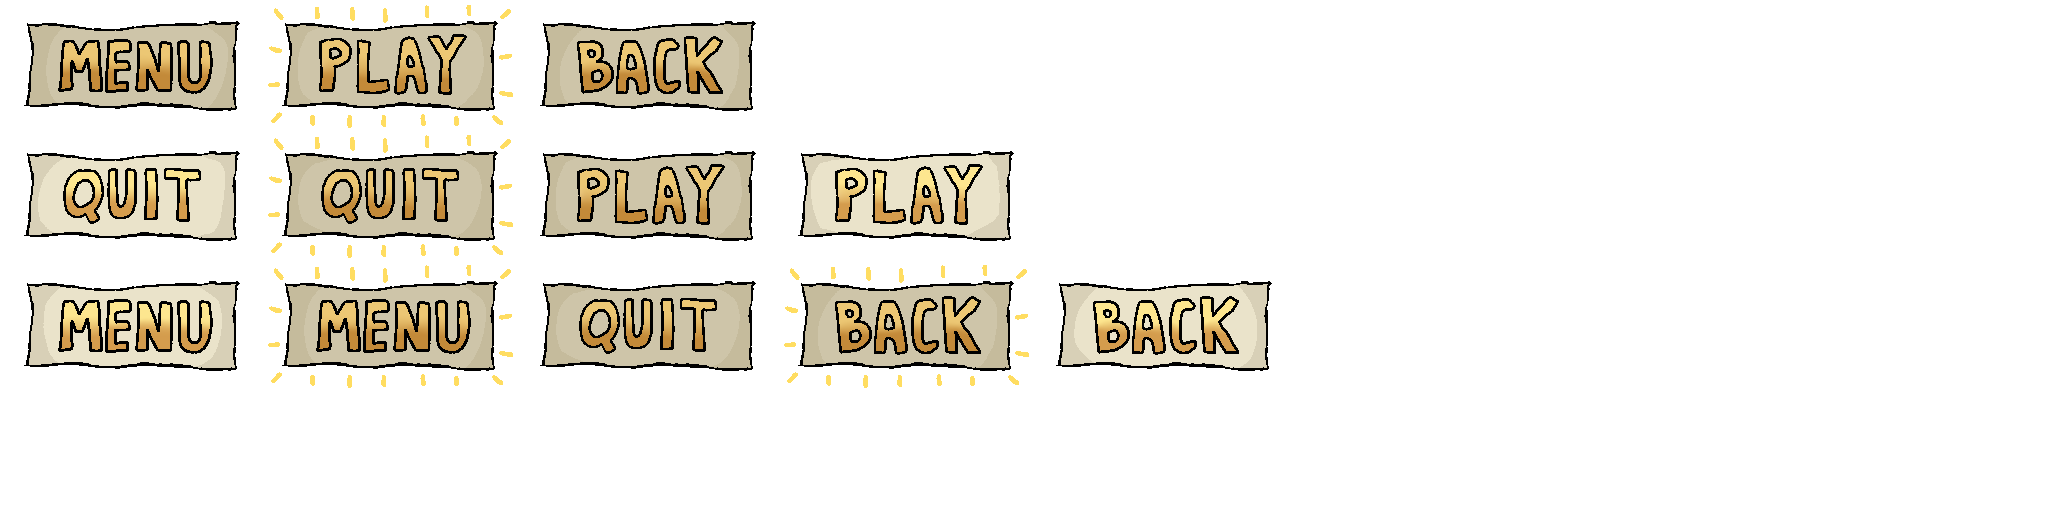
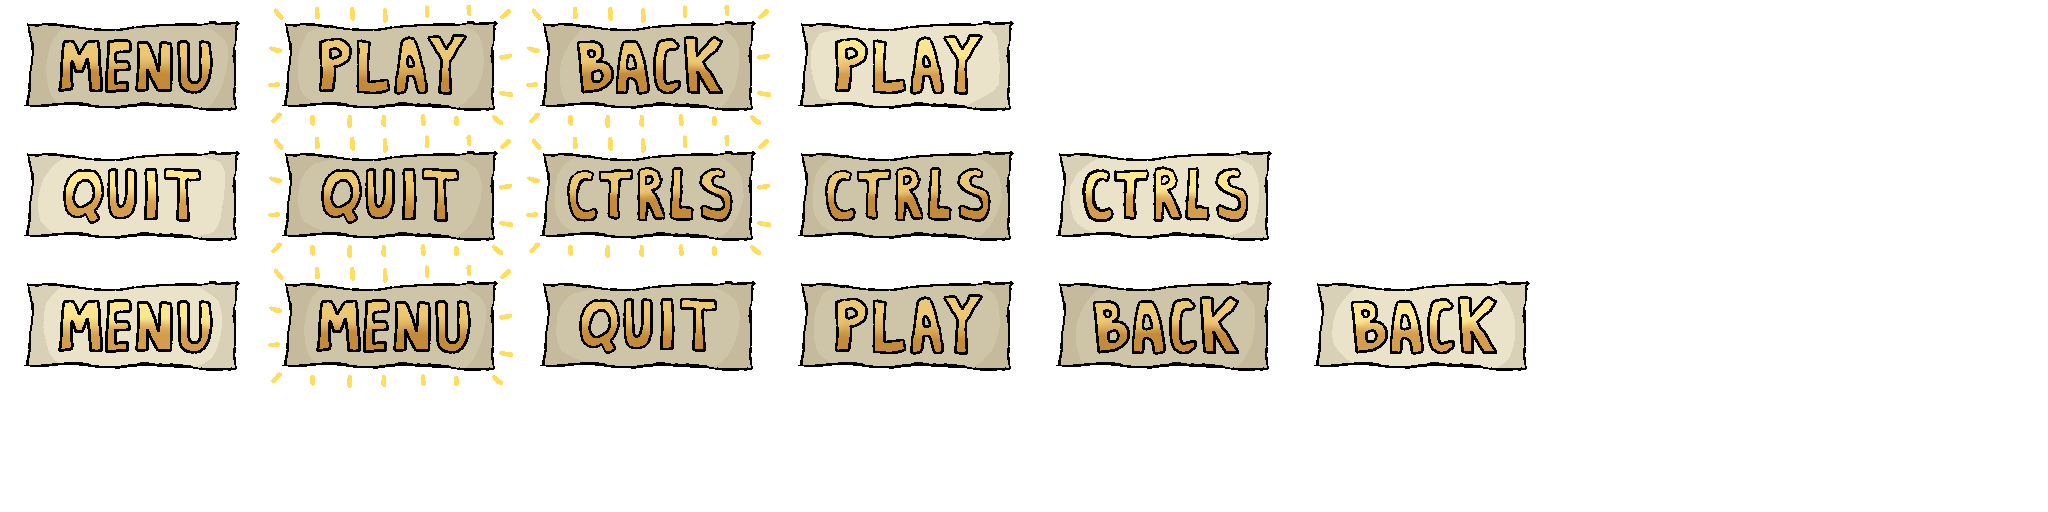
added new button textures, added buttons for displating controls inside pause screen and main menu screen

diff --git a/core/src/main/java/io/github/badgersky/BonesAndDice/PauseScreen.java b/core/src/main/java/io/github/badgersky/BonesAndDice/PauseScreen.java
@@ -48,9 +48,22 @@ public class PauseScreen implements Screen {
         menuBtnStyle.down = new TextureRegionDrawable(buttonAtlas.findRegion("menubtn_click"));
         menuBtnStyle.over = new TextureRegionDrawable(buttonAtlas.findRegion("menubtn_hover"));
 
+        ImageButton.ImageButtonStyle controlsBtnStyle = new ImageButton.ImageButtonStyle();
+        controlsBtnStyle.up = new TextureRegionDrawable(buttonAtlas.findRegion("controlsbtn"));
+        controlsBtnStyle.over = new TextureRegionDrawable(buttonAtlas.findRegion("controlsbtn_hover"));
+        controlsBtnStyle.down = new TextureRegionDrawable(buttonAtlas.findRegion("controlsbtn_click"));
+
         ImageButton backBtn = new ImageButton(backBtnStyle);
         ImageButton quitBtn = new ImageButton(quitBtnStyle);
         ImageButton menuBtn = new ImageButton(menuBtnStyle);
+        ImageButton controlsBtn = new ImageButton(controlsBtnStyle);
+
+        controlsBtn.addListener(new ClickListener() {
+            @Override
+            public void clicked(InputEvent event, float x, float y) {
+                game.setScreen(new ControlScreen(game, PauseScreen.this));
+            }
+        });
 
         menuBtn.addListener(new ClickListener() {
             @Override
@@ -58,7 +71,7 @@ public class PauseScreen implements Screen {
 //                long id = game.btnSound.play(1f);
 //                game.btnSound.setPitch(id, 0.8f);
 //                game.btnSound.setVolume(id, 0.2f);
-//                game.setScreen(new MainMenuScreen(game));
+                game.setScreen(new MainMenuScreen(game));
                 gameScreen.dispose();
                 dispose();
             }
@@ -89,10 +102,9 @@ public class PauseScreen implements Screen {
         table.center();
 
         table.add(backBtn).size(2f, 1f).row();
+        table.add(controlsBtn).size(2f, 1f).row();
         table.add(menuBtn).size(2f, 1f).row();
         table.add(quitBtn).size(2f, 1f).row();
-
-        table.padBottom(1f);
 
         stage.addActor(table);
     }

diff --git a/core/src/main/java/io/github/badgersky/BonesAndDice/MainMenuScreen.java b/core/src/main/java/io/github/badgersky/BonesAndDice/MainMenuScreen.java
@@ -40,8 +40,21 @@ public class MainMenuScreen implements Screen {
         quitBtnStyle.over = new TextureRegionDrawable(buttonAtlas.findRegion("quitbtn_hover"));
         quitBtnStyle.down = new TextureRegionDrawable(buttonAtlas.findRegion("quitbtn_click"));
 
+        ImageButton.ImageButtonStyle controlsBtnStyle = new ImageButton.ImageButtonStyle();
+        controlsBtnStyle.up = new TextureRegionDrawable(buttonAtlas.findRegion("controlsbtn"));
+        controlsBtnStyle.over = new TextureRegionDrawable(buttonAtlas.findRegion("controlsbtn_hover"));
+        controlsBtnStyle.down = new TextureRegionDrawable(buttonAtlas.findRegion("controlsbtn_click"));
+
         ImageButton playBtn = new ImageButton(playBtnStyle);
         ImageButton quitBtn = new ImageButton(quitBtnStyle);
+        ImageButton controlsBtn = new ImageButton(controlsBtnStyle);
+
+        controlsBtn.addListener(new ClickListener() {
+            @Override
+            public void clicked(InputEvent event, float x, float y) {
+                game.setScreen(new ControlScreen(game, MainMenuScreen.this));
+            }
+        });
 
         playBtn.addListener(new ClickListener() {
             @Override
@@ -69,9 +82,10 @@ public class MainMenuScreen implements Screen {
         table.center();
 
         table.add(playBtn).size(2f, 1f).row();
+        table.add(controlsBtn).size(2f, 1f).row();
         table.add(quitBtn).size(2f, 1f).row();
 
-        table.padBottom(2f);
+        table.padBottom(1f);
 
         stage.addActor(table);
     }
